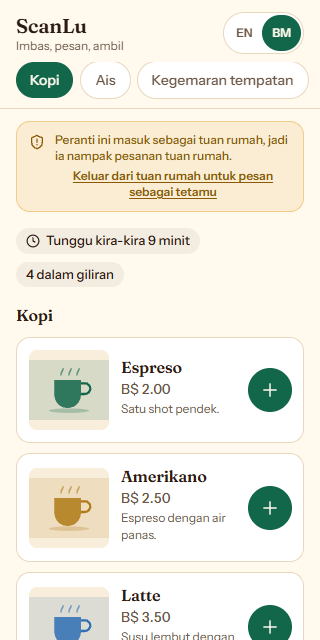
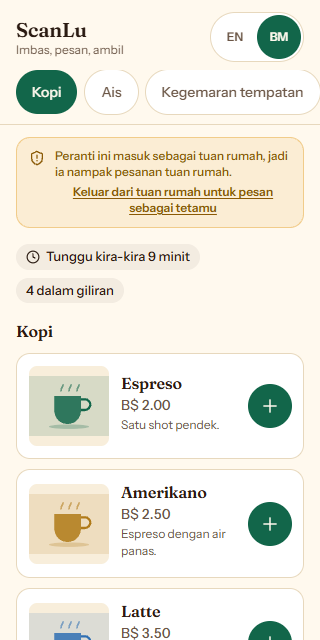
Give the guest controls a thumb-sized target
The category chips and the EN/BM toggle were 36px tall, under the 44px minimum a thumb needs, and the category row is the main way around the menu on a phone. Both are now 44px, checked at 390 and 320 wide.

An audit of every control on the guest menu and cart now reports none under 44px, no horizontal overflow at either width, and the cart bar still reserves its own space.

diff --git a/src/pages/MenuPage.tsx b/src/pages/MenuPage.tsx
@@ -187,7 +187,9 @@ export function MenuPage() {
                     element?.scrollIntoView({ behavior: 'smooth', block: 'start' })
                   }}
                   className={cx(
-                    'min-h-9 shrink-0 rounded-full px-3.5 text-sm font-medium whitespace-nowrap transition-colors',
+                    // 44px tall, not 36: this is the main way to move around the
+                    // menu on a phone, and a thumb is not a cursor.
+                    'min-h-11 shrink-0 rounded-full px-4 text-sm font-medium whitespace-nowrap transition-colors',
                     active
                       ? 'bg-brand-700 text-cream-50'
                       : 'bg-panel text-ink-muted ring-1 ring-hairline hover:text-ink',

diff --git a/src/components/LanguageToggle.tsx b/src/components/LanguageToggle.tsx
@@ -28,7 +28,7 @@ export function LanguageToggle({ className }: { className?: string }) {
               }
             }}
             className={cx(
-              'min-h-9 rounded-full px-2.5 text-xs font-semibold transition-colors',
+              'min-h-11 min-w-11 rounded-full px-2.5 text-xs font-semibold transition-colors',
               active ? 'bg-brand-700 text-cream-50' : 'text-ink-muted hover:text-ink',
             )}
           >
